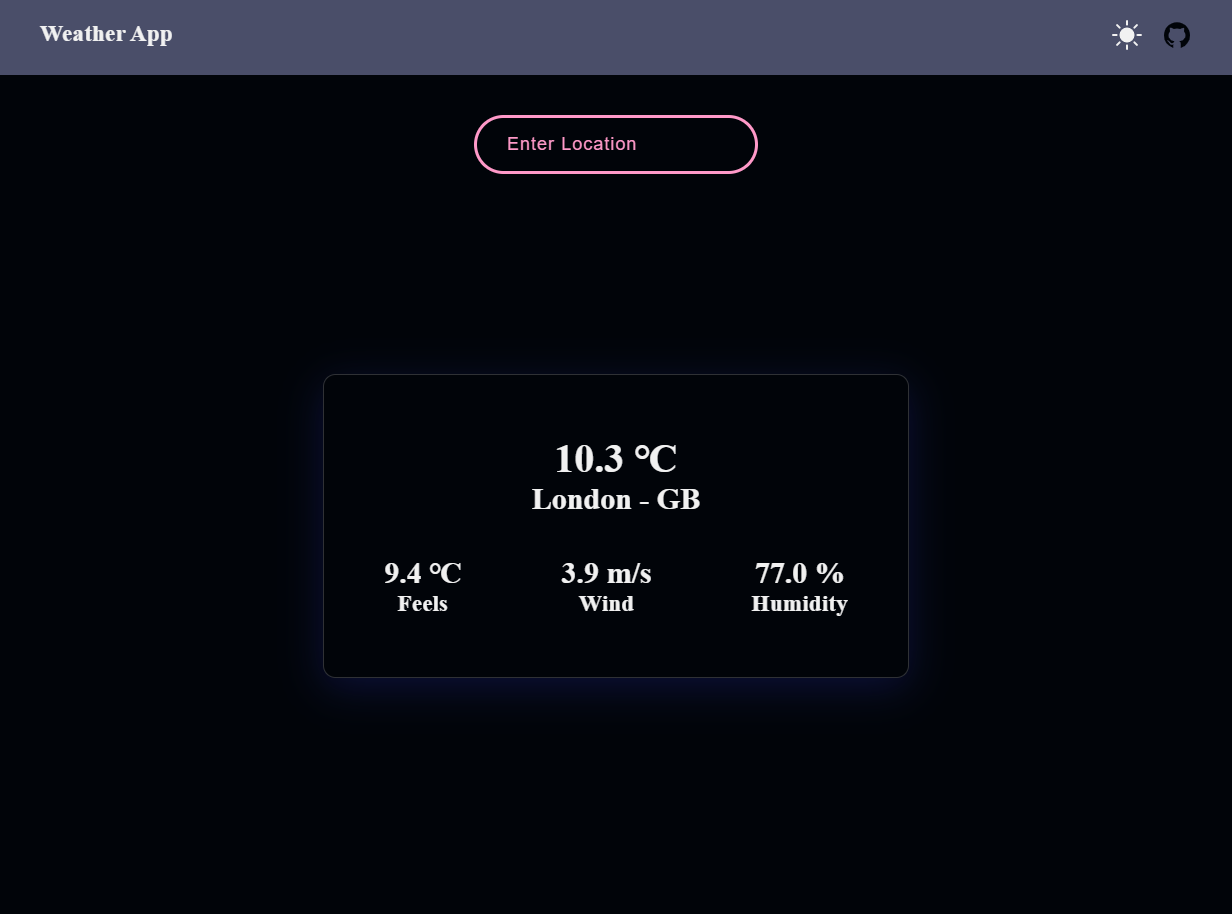
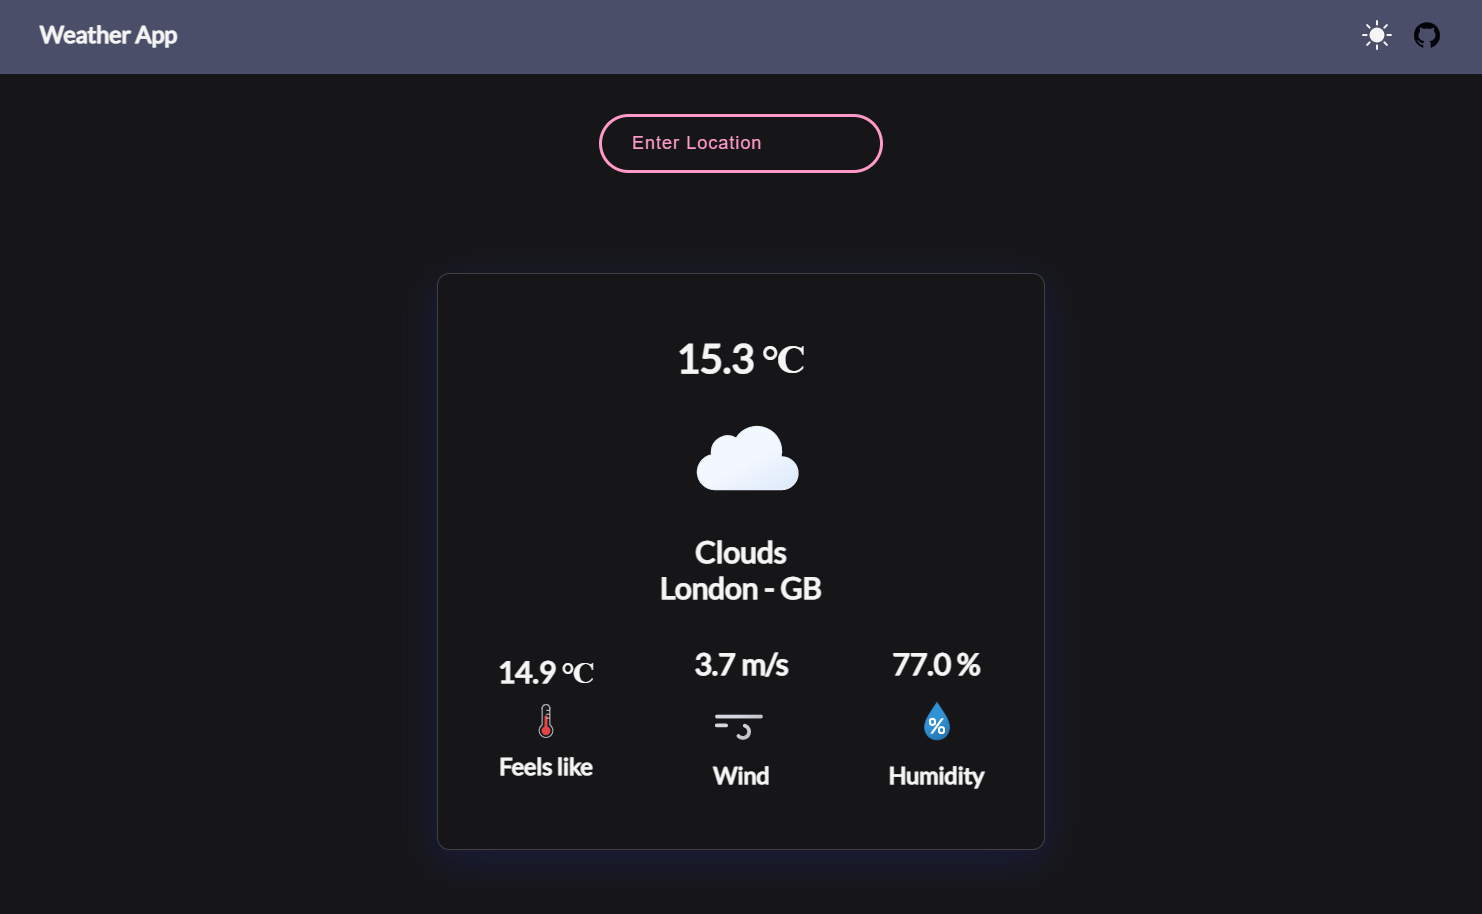
refactoring some components + UI improvements

diff --git a/src/components/WeatherFeed.js b/src/components/WeatherFeed.js
@@ -1,6 +1,11 @@
-import React, { useState, useEffect } from "react";
+import React, { useState } from "react";
+import Image from "next/image";
+import { WeatherImg } from "./WeatherImg";
+
 import styles from "@/styles/WeatherFeed.module.css";
 import { getQueryWeatherData } from "@/lib/apiRequests";
+import wind from "../../public/assets/wind.svg";
+import humidity from "../../public/assets/humidity.svg";
 
 const WeatherFeed = ({ weather }) => {
   const [defaultWeather, setDefaultWeather] = useState(weather);
@@ -20,6 +25,8 @@ const WeatherFeed = ({ weather }) => {
     setQuery("");
     setDefaultWeather(queryWeather);
   };
+
+  const tempToRender = defaultWeather?.weather[0]?.main;
 
   return (
     <div className={styles.weather__card}>
@@ -41,6 +48,8 @@ const WeatherFeed = ({ weather }) => {
         <div className={styles.weather__card__result}>
           <div className={styles.weather__main}>
             <h1>{defaultWeather?.main.temp.toFixed(1)} &#8451;</h1>
+            <WeatherImg main={tempToRender} />
+            <h2>{tempToRender}</h2>
             <h2>
               {defaultWeather?.name} - {defaultWeather?.sys.country}
             </h2>
@@ -48,14 +57,23 @@ const WeatherFeed = ({ weather }) => {
           <div className={styles.weather__stats}>
             <div className={styles.weather__stat}>
               <h2>{defaultWeather.main.feels_like.toFixed(1)} &#8451;</h2>
-              <h3>Feels</h3>
+              <Image
+                priority
+                src="./assets/thermometer.svg"
+                alt="thermometer"
+                width={50}
+                height={50}
+              ></Image>
+              <h3>Feels like</h3>
             </div>
             <div className={styles.weather__stat}>
               <h2>{defaultWeather.wind.speed.toFixed(1)} m/s</h2>
+              <Image priority src={wind} alt="wind speed"></Image>
               <h3>Wind</h3>
             </div>
             <div className={styles.weather__stat}>
               <h2>{defaultWeather.main.humidity.toFixed(1)} %</h2>
+              <Image priority src={humidity} alt="humidity"></Image>
               <h3>Humidity</h3>
             </div>
           </div>

diff --git a/src/components/WeatherImg.js b/src/components/WeatherImg.js
@@ -1,0 +1,19 @@
+import React from "react";
+export const WeatherImg = ({ main }) => {
+  let imageSource;
+  switch (main) {
+    case "Clouds":
+      imageSource = "./assets/cloudy.svg";
+      break;
+    case "Clear":
+      imageSource = "./assets/clear-day.svg";
+      break;
+    case "Rain":
+      imageSource = "./assets/rain.svg";
+      break;
+    default:
+      imageSource = "../assets/mist.svg";
+      break;
+  }
+  return <img src={imageSource} alt={main} width={120} height={120} />;
+};

diff --git a/src/styles/globals.css b/src/styles/globals.css
@@ -1,18 +1,20 @@
+@import url("https://fonts.googleapis.com/css2?family=Lato&display=swap");
 * {
   margin: 0;
   padding: 0;
   box-sizing: border-box;
 }
 body {
-  background-color: #f1f1f1;
+  background-color: #faeee7;
   transition: all 0.5s ease-in-out;
+  font-family: "Lato", sans-serif;
 }
 
 .dark {
-  background-color: #010409;
-  color: #f1f1f1;
+  background-color: #161618;
+  color: #f5f5f5;
 }
 
 .light {
-  background-color: #f1f1f1;
+  background-color: #faeee7;
 }

diff --git a/src/pages/index.js b/src/pages/index.js
@@ -43,7 +43,7 @@ const index = function ({ weather }) {
           </div>
           <div>
             <Link href="https://github.com/trstefan">
-              <AiFillGithub className={styles.icon_link} style="all:unset;" />
+              <AiFillGithub className={styles.icon_link} style="all:unset" />
             </Link>
           </div>
         </div>

diff --git a/src/styles/WeatherFeed.module.css b/src/styles/WeatherFeed.module.css
@@ -1,6 +1,7 @@
 .weather__card {
   width: 1000px;
   display: flex;
+
   flex-direction: column;
   justify-content: center;
   align-items: center;
@@ -26,7 +27,7 @@
 }
 
 .weather__card__result {
-  margin-top: 10rem;
+  margin-top: 5rem;
   padding: 3rem;
   display: flex;
   flex-direction: column;

diff --git a/README.md b/README.md
@@ -31,7 +31,7 @@ The weather allows users to check the weather in different cities
 ## 📚 Technologies
 
 - ReactJS
-- ReactHooks (useState)
+- ReactHooks
 - NextJS
 
 ## :compass: Roadmap
@@ -39,6 +39,8 @@ The weather allows users to check the weather in different cities
 - [x] Fetch London weather as default city
 - [x] Search other cities weather
 - [x] Dark Mode
+- [ ] Add daily forecast
+- [ ] Add weekly forecast
 
 ## :runner: Run Locally
 
@@ -75,3 +77,4 @@ Start the server
 ## :star: Acknowledgements
 
 - [OpenWeather](https://openweathermap.org//)
+- [Meteocons](https://bas.dev/work/meteocons) - Credits for those amazing SVG icons
